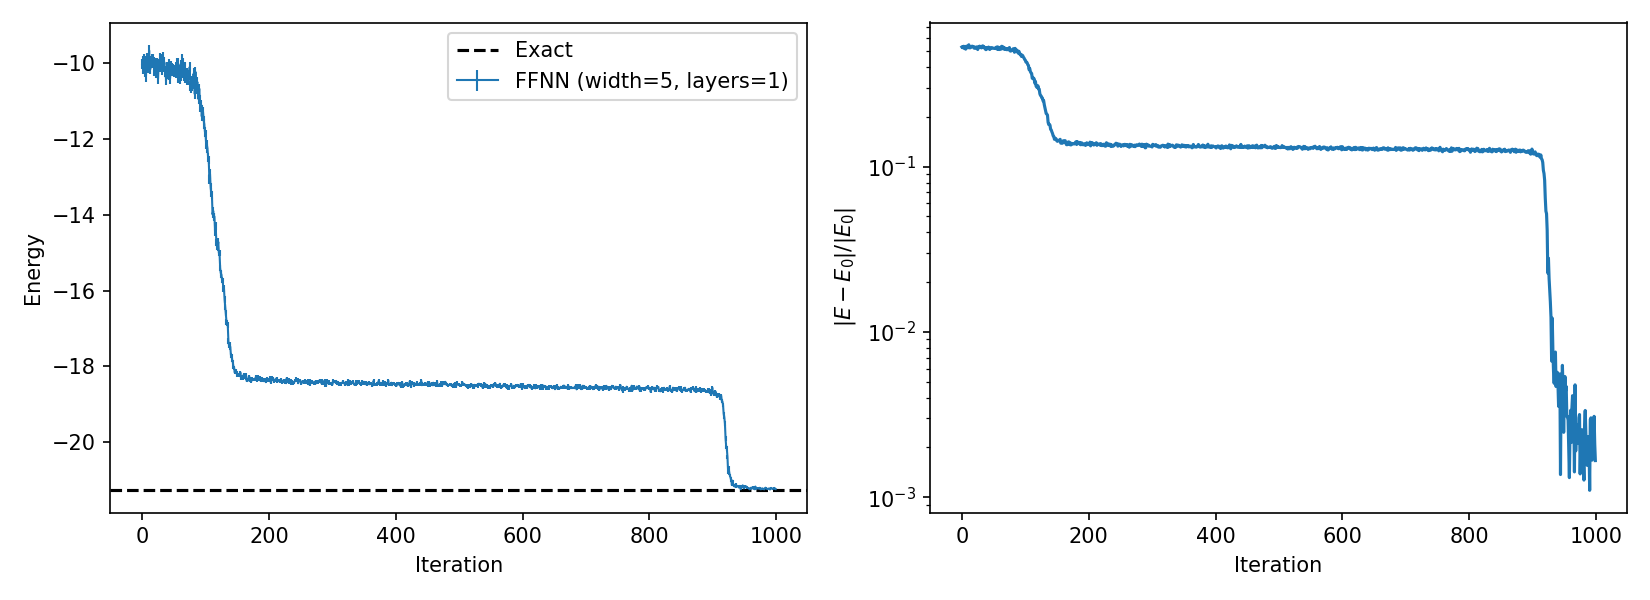
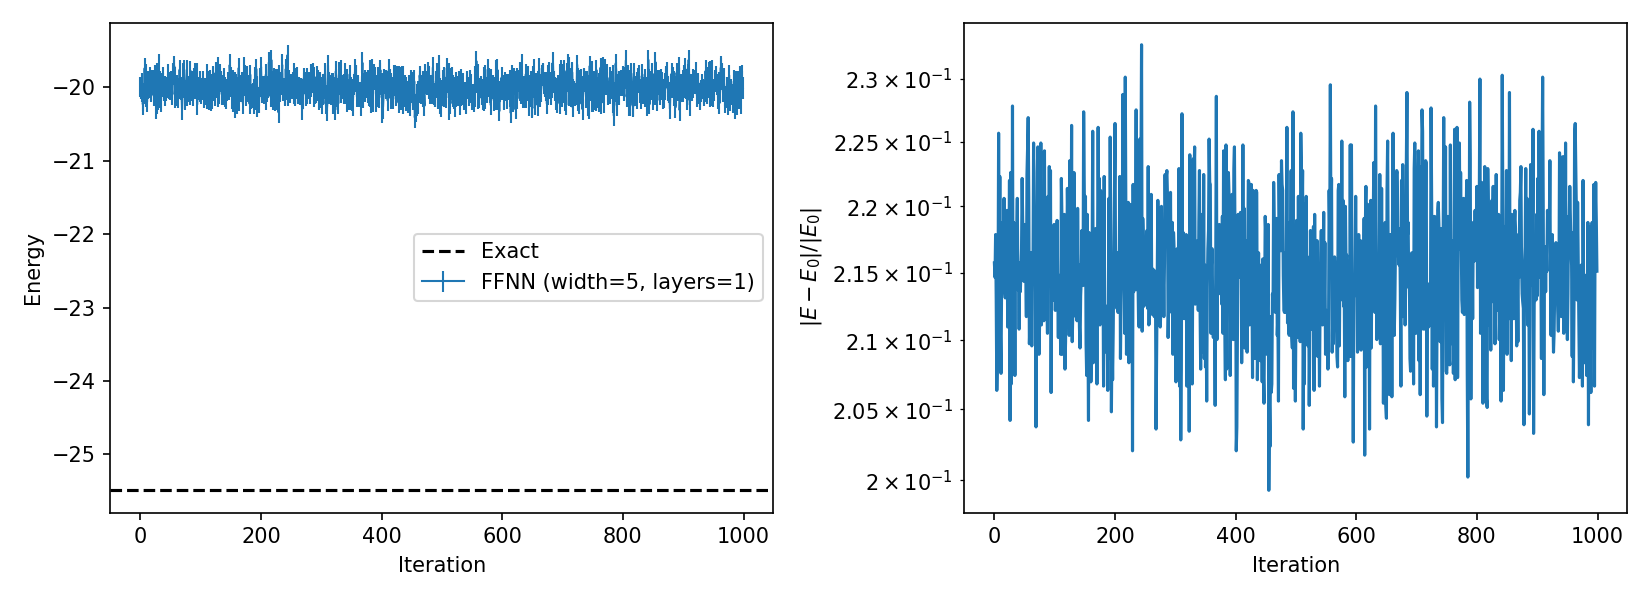
Change

diff --git a/EX08/ex8.py b/EX08/ex8.py
@@ -8,6 +8,11 @@ import matplotlib.pyplot as plt
 import netket as nk
 import numpy as np
 
+from netket.optimizer import SR
+
+os.environ["JAX_PLATFORM_NAME"] = "cpu"
+
+
 # Setup
 
 # Number of spins
@@ -24,7 +29,7 @@ g = nk.graph.Chain(N, pbc=True)
 # Hilbert space
 hi = nk.hilbert.Spin(s=1 / 2, N=g.n_nodes)
 # Hamiltonian
-ha = nk.operator.Ising(hilbert=hi, graph=g, h=0.5)
+ha = nk.operator.Ising(hilbert=hi, graph=g, h=1)
 # Sampler (single-spin flips)
 sa = nk.sampler.MetropolisLocal(hi, n_chains=n_chains)
 # Optimizer
@@ -58,7 +63,7 @@ ma = FFNN(width=N // 4, n_layers=1)
 # Variational state object
 vs = nk.vqs.MCState(sa, ma, n_samples=Ns, n_discard_per_chain=n_discard)
 # VMC optimization driver
-vmc = nk.VMC(ha, op, variational_state=vs)
+vmc = nk.VMC(ha, op, variational_state=vs, preconditioner=SR(diag_shift=0.01))
 # Log the energy at every iteration to plot the convergence
 log = nk.logging.RuntimeLog()
 vmc.run(n_iter=1000, out=log)
